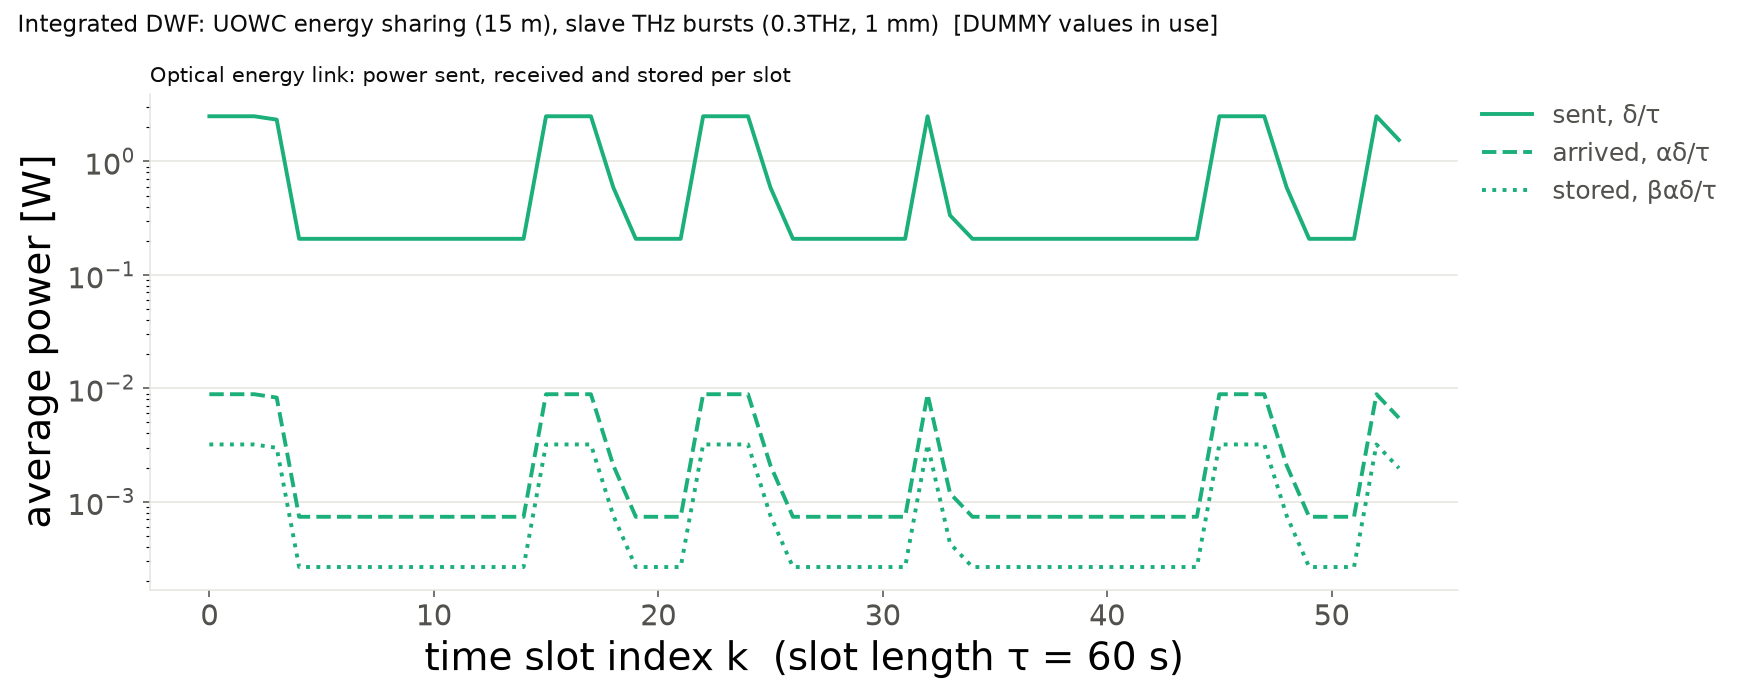
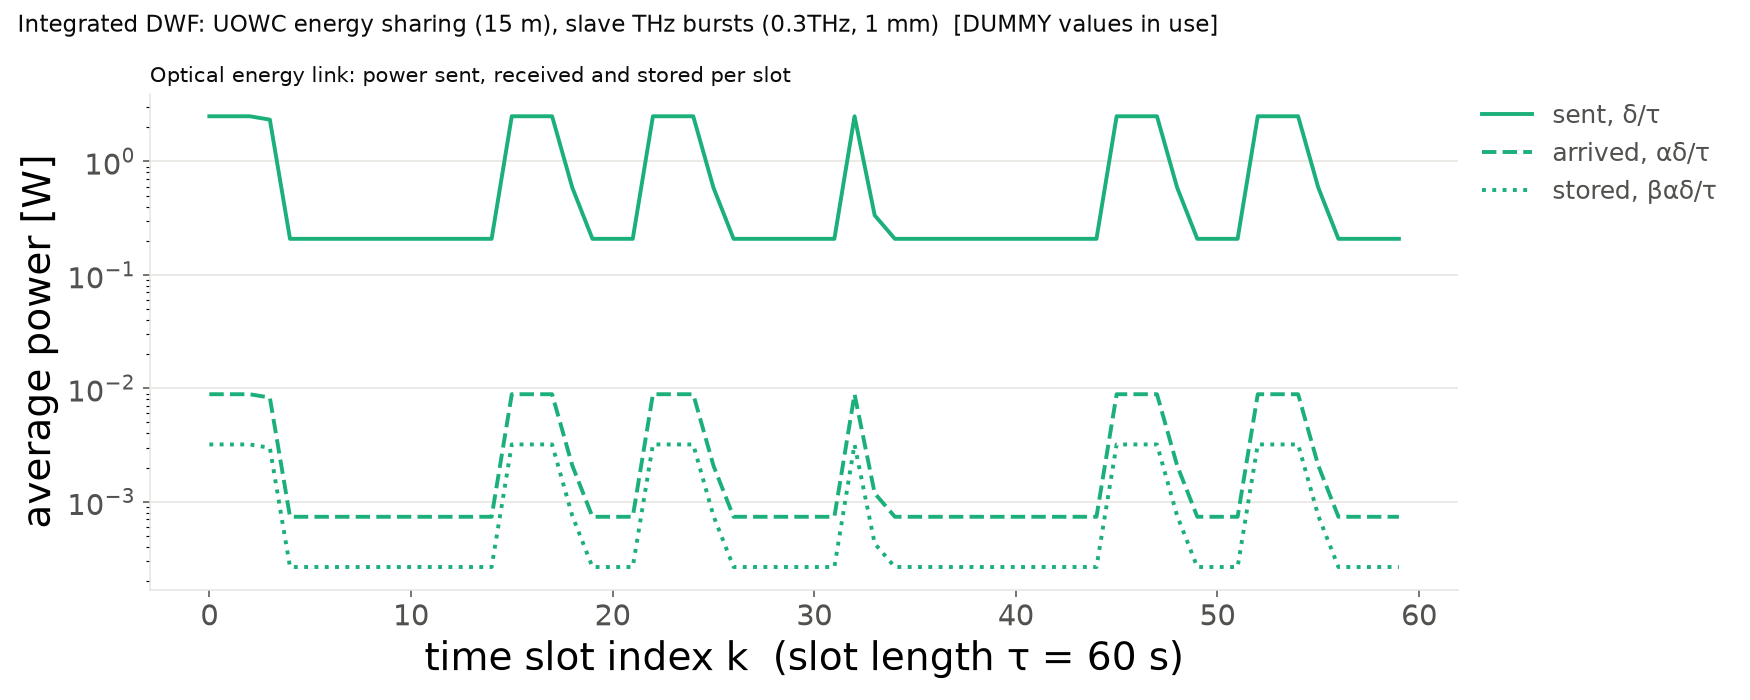
Full winter harvest for integrated_demo; MASTER_E_MAX_J 4900 -> 5000 J; rerun UOWC sweep
With the full harvest MASTER_FLOOR_J = 1000 J exceeded E_max - max(E[1:]) = 979 J.

diff --git a/advanced_DWF/slave_config.py b/advanced_DWF/slave_config.py
@@ -120,9 +120,9 @@ MAXIMAL_SHARING = True               # post-pass: master shares as early / as mu
 #   Priority of the master's harvest each slot: the slave's minimum (just-in-time) need -> the master's own reserve
 #   up to MASTER_FLOOR_J -> sharing (maximal-sharing post-pass, stopped by B_max / S5 / M5) -> stored up to
 #   MASTER_E_MAX_J -> spilled.  Sized for the winter harvest (3.66 - 3.92 kJ per 60 s slot).
-MASTER_E_MAX_J = 4900.0              # M2: master battery capacity [J]; float("inf") = no cap (the old behaviour)
+MASTER_E_MAX_J = 5000.0             # M2: master battery capacity [J]; float("inf") = no cap (the old behaviour)
 MASTER_FLOOR_J = 1000.0              # M6: reserve the master keeps for itself [J]; None = off (master may end empty).
-#                                      Must be <= MASTER_E_MAX_J - max harvest per slot (= 4079 J here).
+#                                      Must be <= MASTER_E_MAX_J - max harvest per slot (= 5000 - 3920.8 = 1079 J with the full winter harvest).
 
 # ---------------- event timing (per EVENT, seconds; scalar or length-N array) ----------------
 EVENT_DURATIONS = dict(

diff --git a/advanced_DWF/dwf2d/demos.py b/advanced_DWF/dwf2d/demos.py
@@ -125,7 +125,7 @@ def _integrated_problem(preset: str | None = None, n_periods: int = 1):
     # h = 1.0 is a PLACEHOLDER: with theta1 = 0 the master has no data, so h only appears in step() with weight 0.
     # Master battery: capacity MASTER_E_MAX_J (M2) and reserve floor MASTER_FLOOR_J (M6) from slave_config.py.
     # Half-harvest scenario: Harvested_energy_winter_half (use Harvested_energy_winter for the full-day harvest).
-    master = MasterParams(E=np.tile(Harvested_energy_winter_half, int(n_periods)), E_max=float(cfg.MASTER_E_MAX_J),
+    master = MasterParams(E=np.tile(Harvested_energy_winter, int(n_periods)), E_max=float(cfg.MASTER_E_MAX_J),
                           tau=60.0, h=1.0)
     jp0 = JointParams(master=master, alpha=uowc_alpha(cfg.D_UOWC_M, cfg.UOWC_C_PER_M, cfg.ETA_LD, cfg.UOWC_GEOM), beta=0.8,
                       theta1=0.0, slave_schedule=cfg.SLAVE_SCHEDULE, master_floor_J=cfg.MASTER_FLOOR_J)
